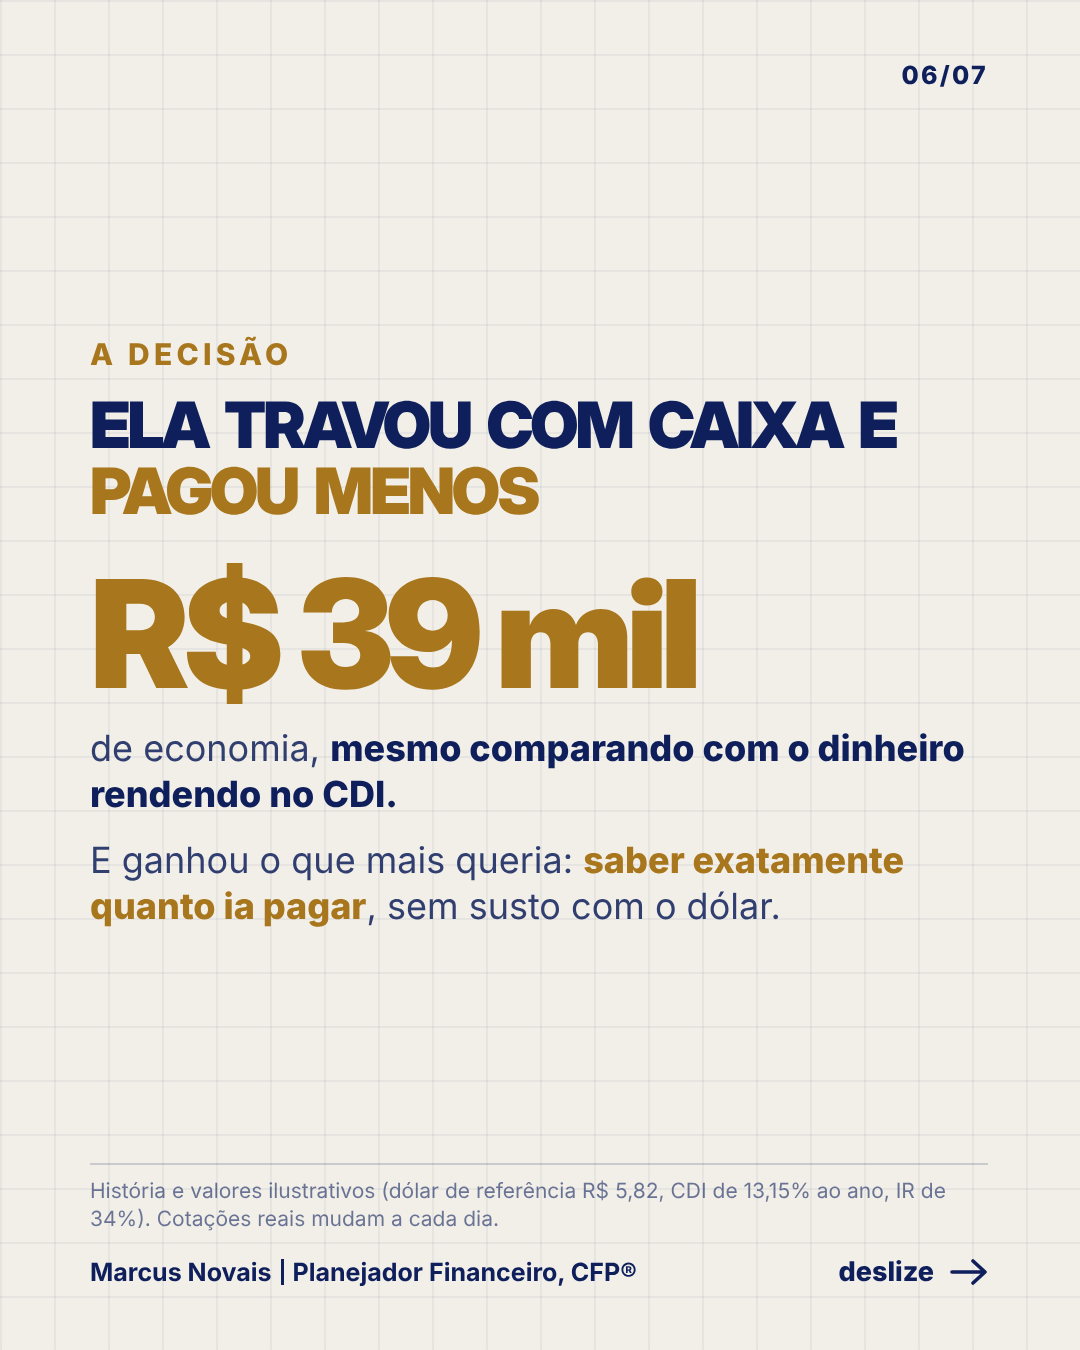
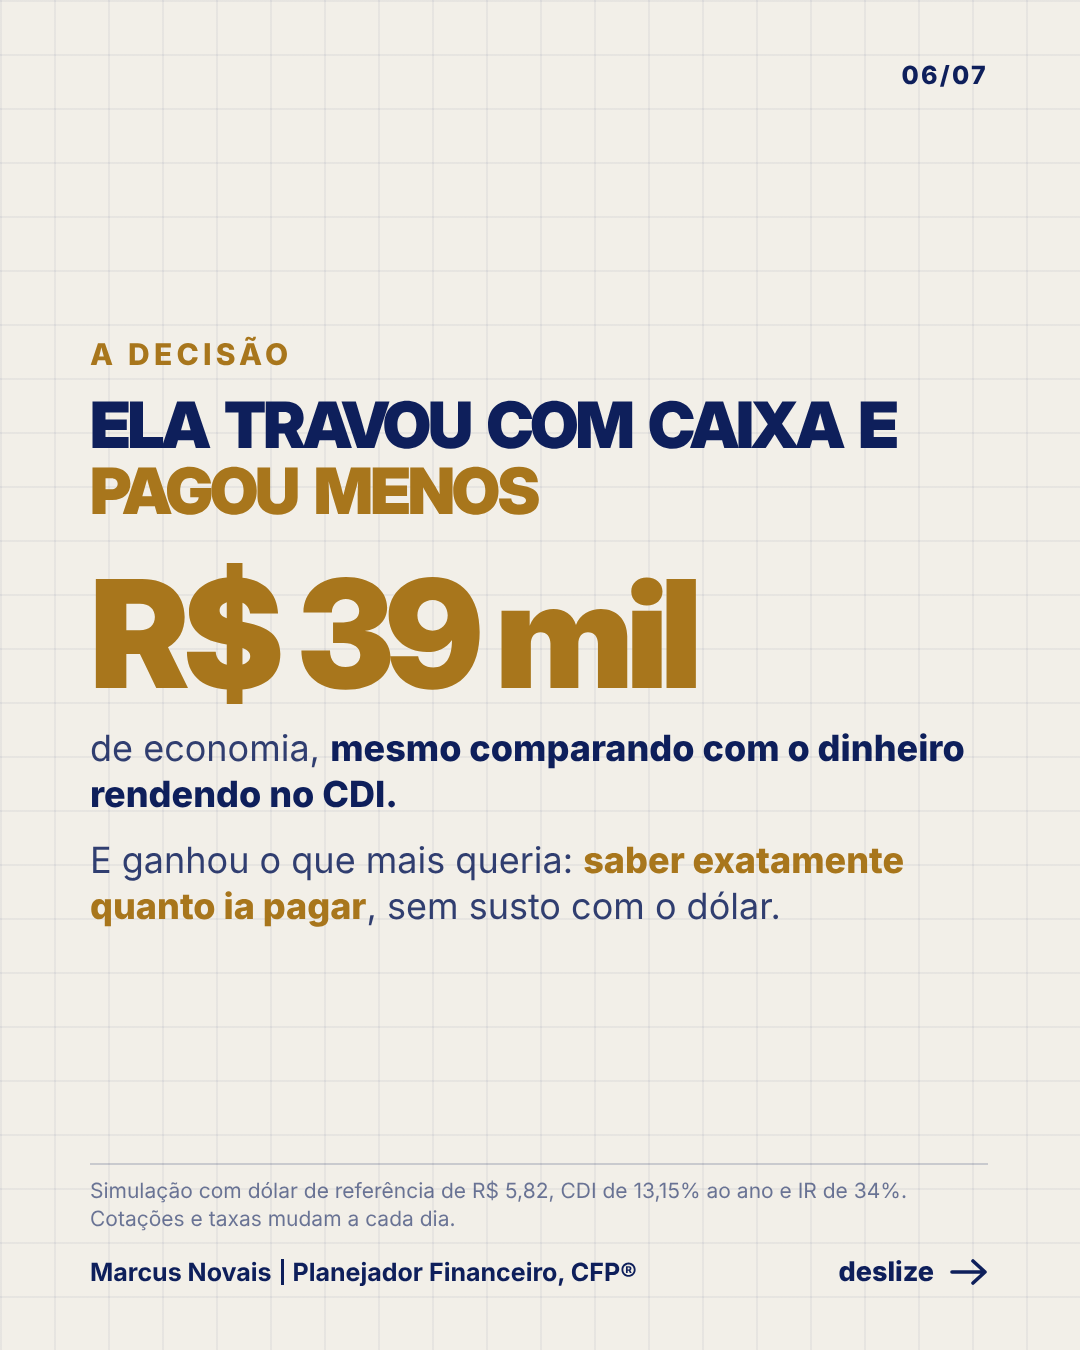
Carrossel trava cambial: aviso só sobre a simulação
Claude-Session: https://claude.ai/code/session_01JkBXj6tz5hpSkGAznkwYEm

Changed region(s): [[0.0917, 0.8711, 0.8556, 0.9333]]

diff --git a/carrossel-trava-cambial/slides.html b/carrossel-trava-cambial/slides.html
@@ -158,7 +158,7 @@ S.push({h:`<div class="bg"><img src="img/marcus-b3.jpg" style="object-position:5
  <p style="font-size:34px">Eu faço a simulação com os números do seu negócio.</p>
  <div class="btn">Acesse o link na BIO e fale comigo</div></div>`});
 const N=S.length;
-const AVISO='História e valores ilustrativos (dólar de referência R$ 5,82, CDI de 13,15% ao ano, IR de 34%). Cotações reais mudam a cada dia.';
+const AVISO='Simulação com dólar de referência de R$ 5,82, CDI de 13,15% ao ano e IR de 34%. Cotações e taxas mudam a cada dia.';
 S.forEach((x,i)=>{ const s=document.createElement('section'); s.className='slide'+(x.light?' light':''); if(x.video) s.dataset.video=x.video;
   s.innerHTML=x.h+(x.disc?`<div class="aviso">${AVISO}</div>`:'')+`<div class="count">${String(i+1).padStart(2,'0')}/${String(N).padStart(2,'0')}</div><div class="foot"><div class="who">Marcus Novais<span></span>Planejador Financeiro, CFP®</div>${i<N-1?'<div class="go">deslize <svg width="38" height="28" viewBox="0 0 38 28" fill="none" stroke="#fff" stroke-width="3.6" stroke-linecap="round" stroke-linejoin="round"><path d="M2 14h33M23 3l12 11-12 11"/></svg></div>':''}</div>`;
   document.body.appendChild(s); });
